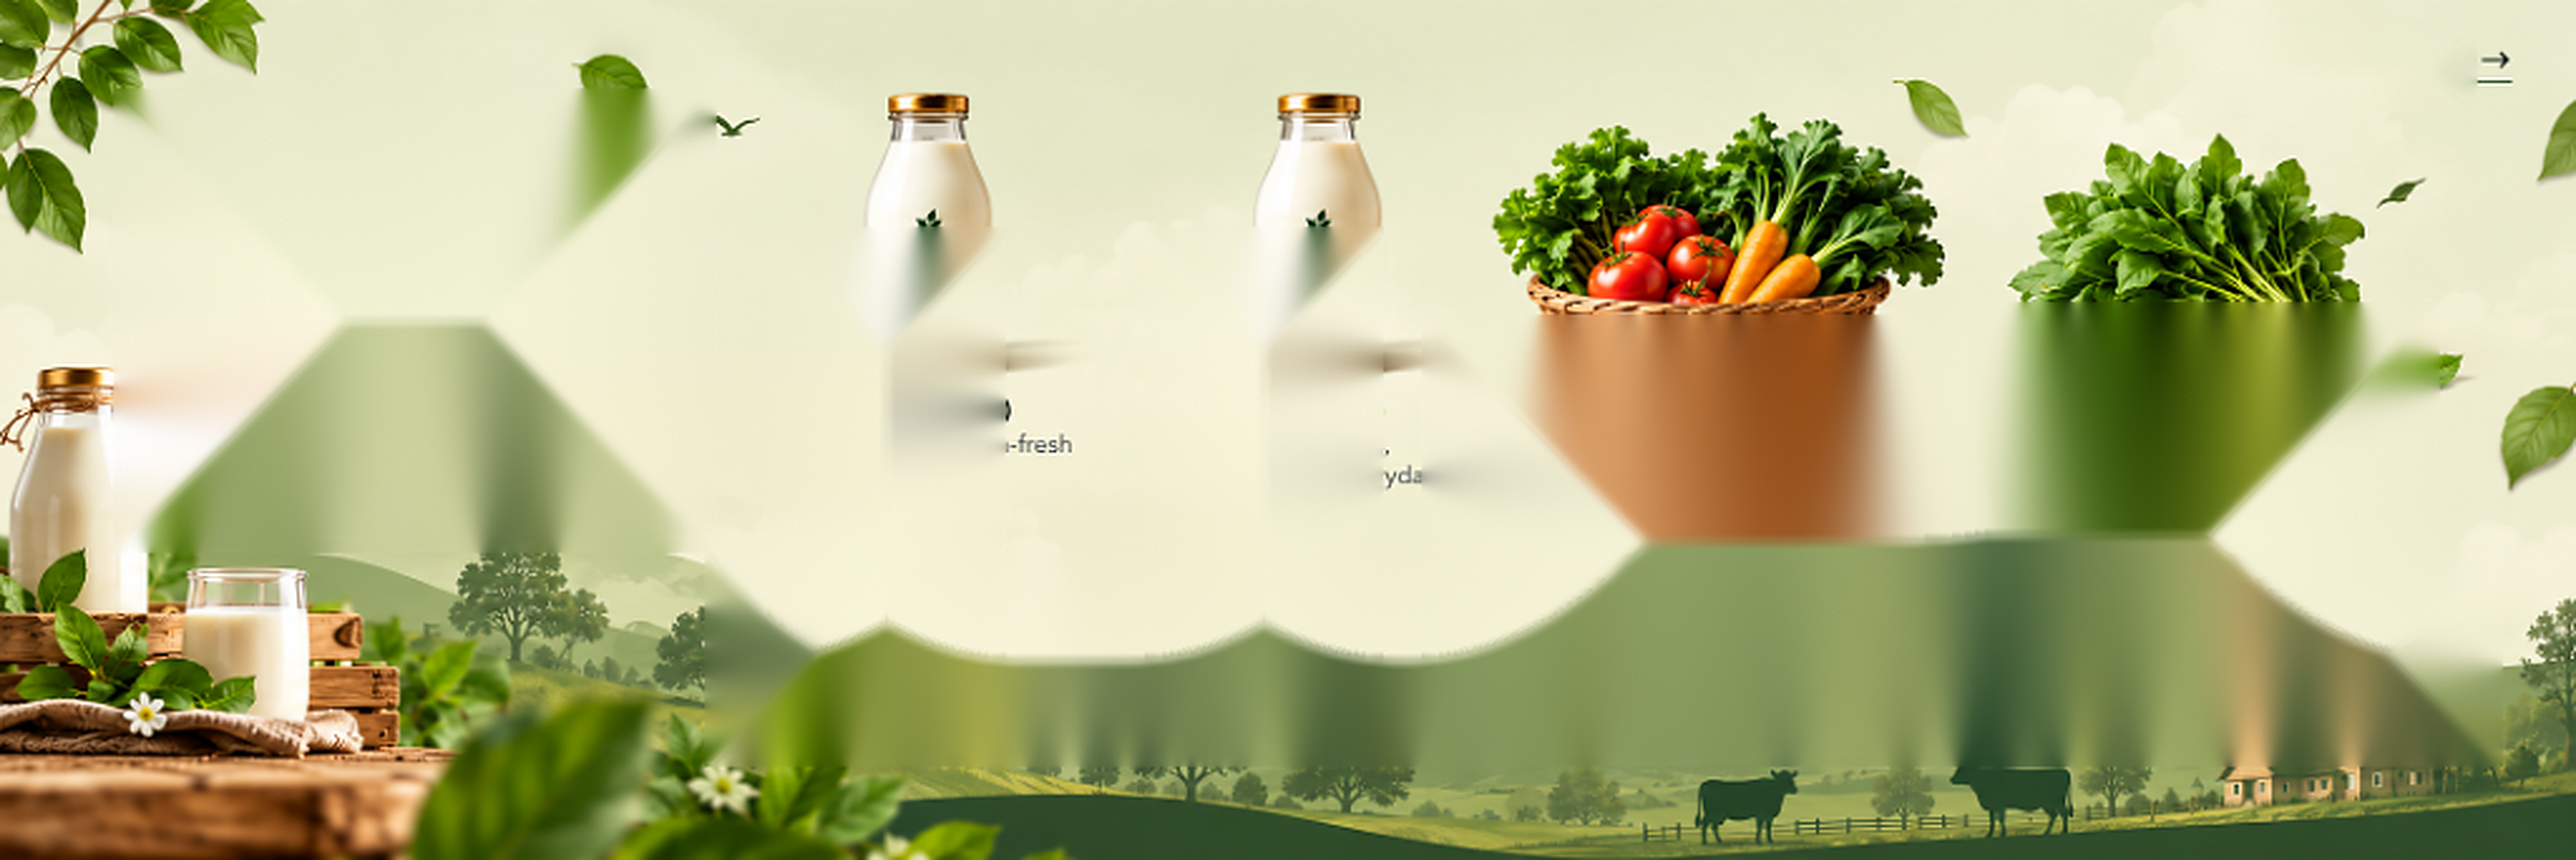
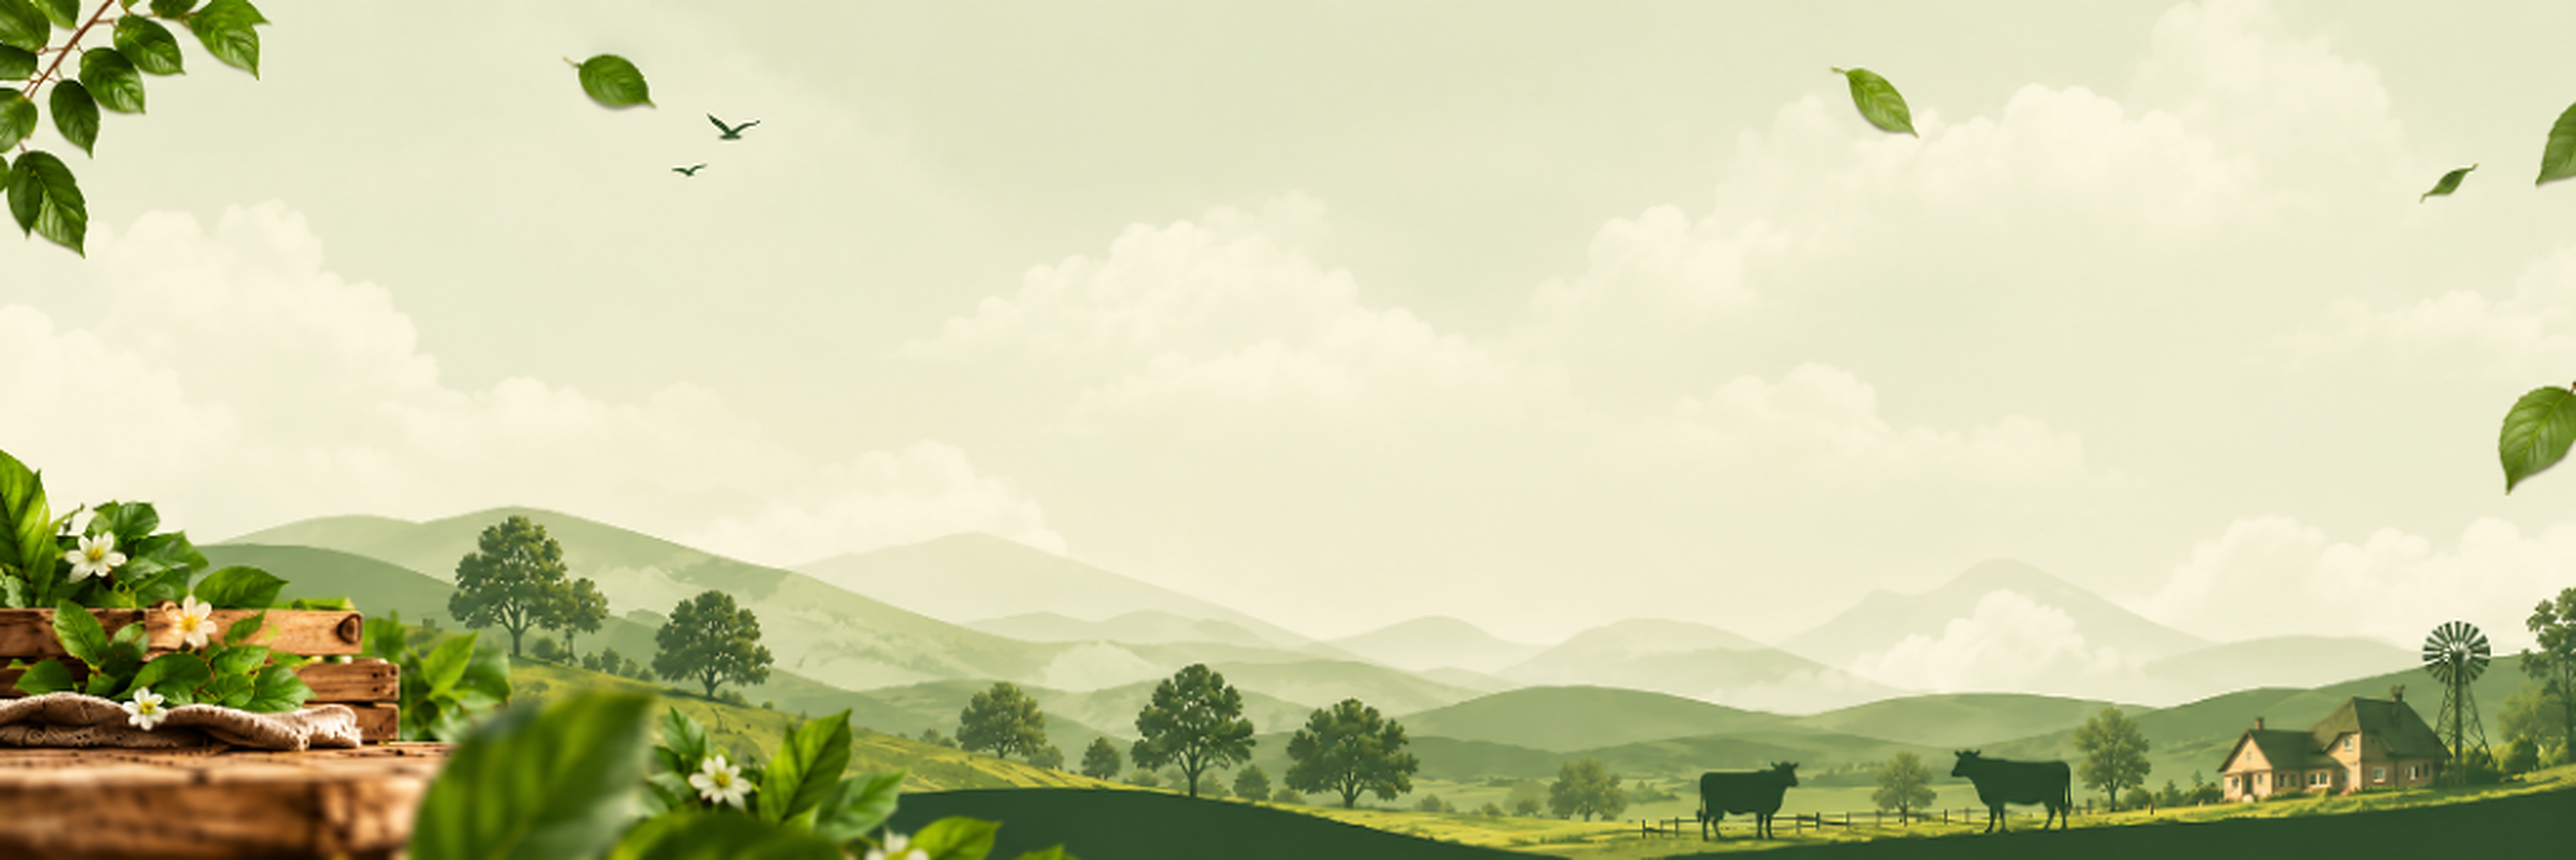
feat: apply user uploaded pure countryside background in Ultra HD without gradient overlay

diff --git a/src/components/HarvestHeroSection.css b/src/components/HarvestHeroSection.css
@@ -5,25 +5,18 @@
   overflow: hidden;
   padding: 36px 4.5% 64px;
   color: #1b3823;
-  background-color: #eef3e8;
+  background-color: transparent;
   font-family: Arial, sans-serif;
   box-sizing: border-box;
 }
 
-/* Panoramic Countryside HD Background - Pure Vibrant Landscape (No white wash overlay) */
+/* Pure Panoramic Countryside HD Background (100% Original Artwork) */
 .harvest-hero-section::before {
   content: "";
   position: absolute;
   inset: 0;
   z-index: -1;
-  background:
-    linear-gradient(
-      90deg,
-      rgba(244, 248, 240, 0.40) 0%,
-      rgba(244, 248, 240, 0.15) 35%,
-      transparent 100%
-    ),
-    url("/images/harvest-landscape-clean-uhd.png") center / cover no-repeat;
+  background: url("/images/harvest-landscape-clean-uhd.png") center / cover no-repeat;
   opacity: 1;
 }
 
